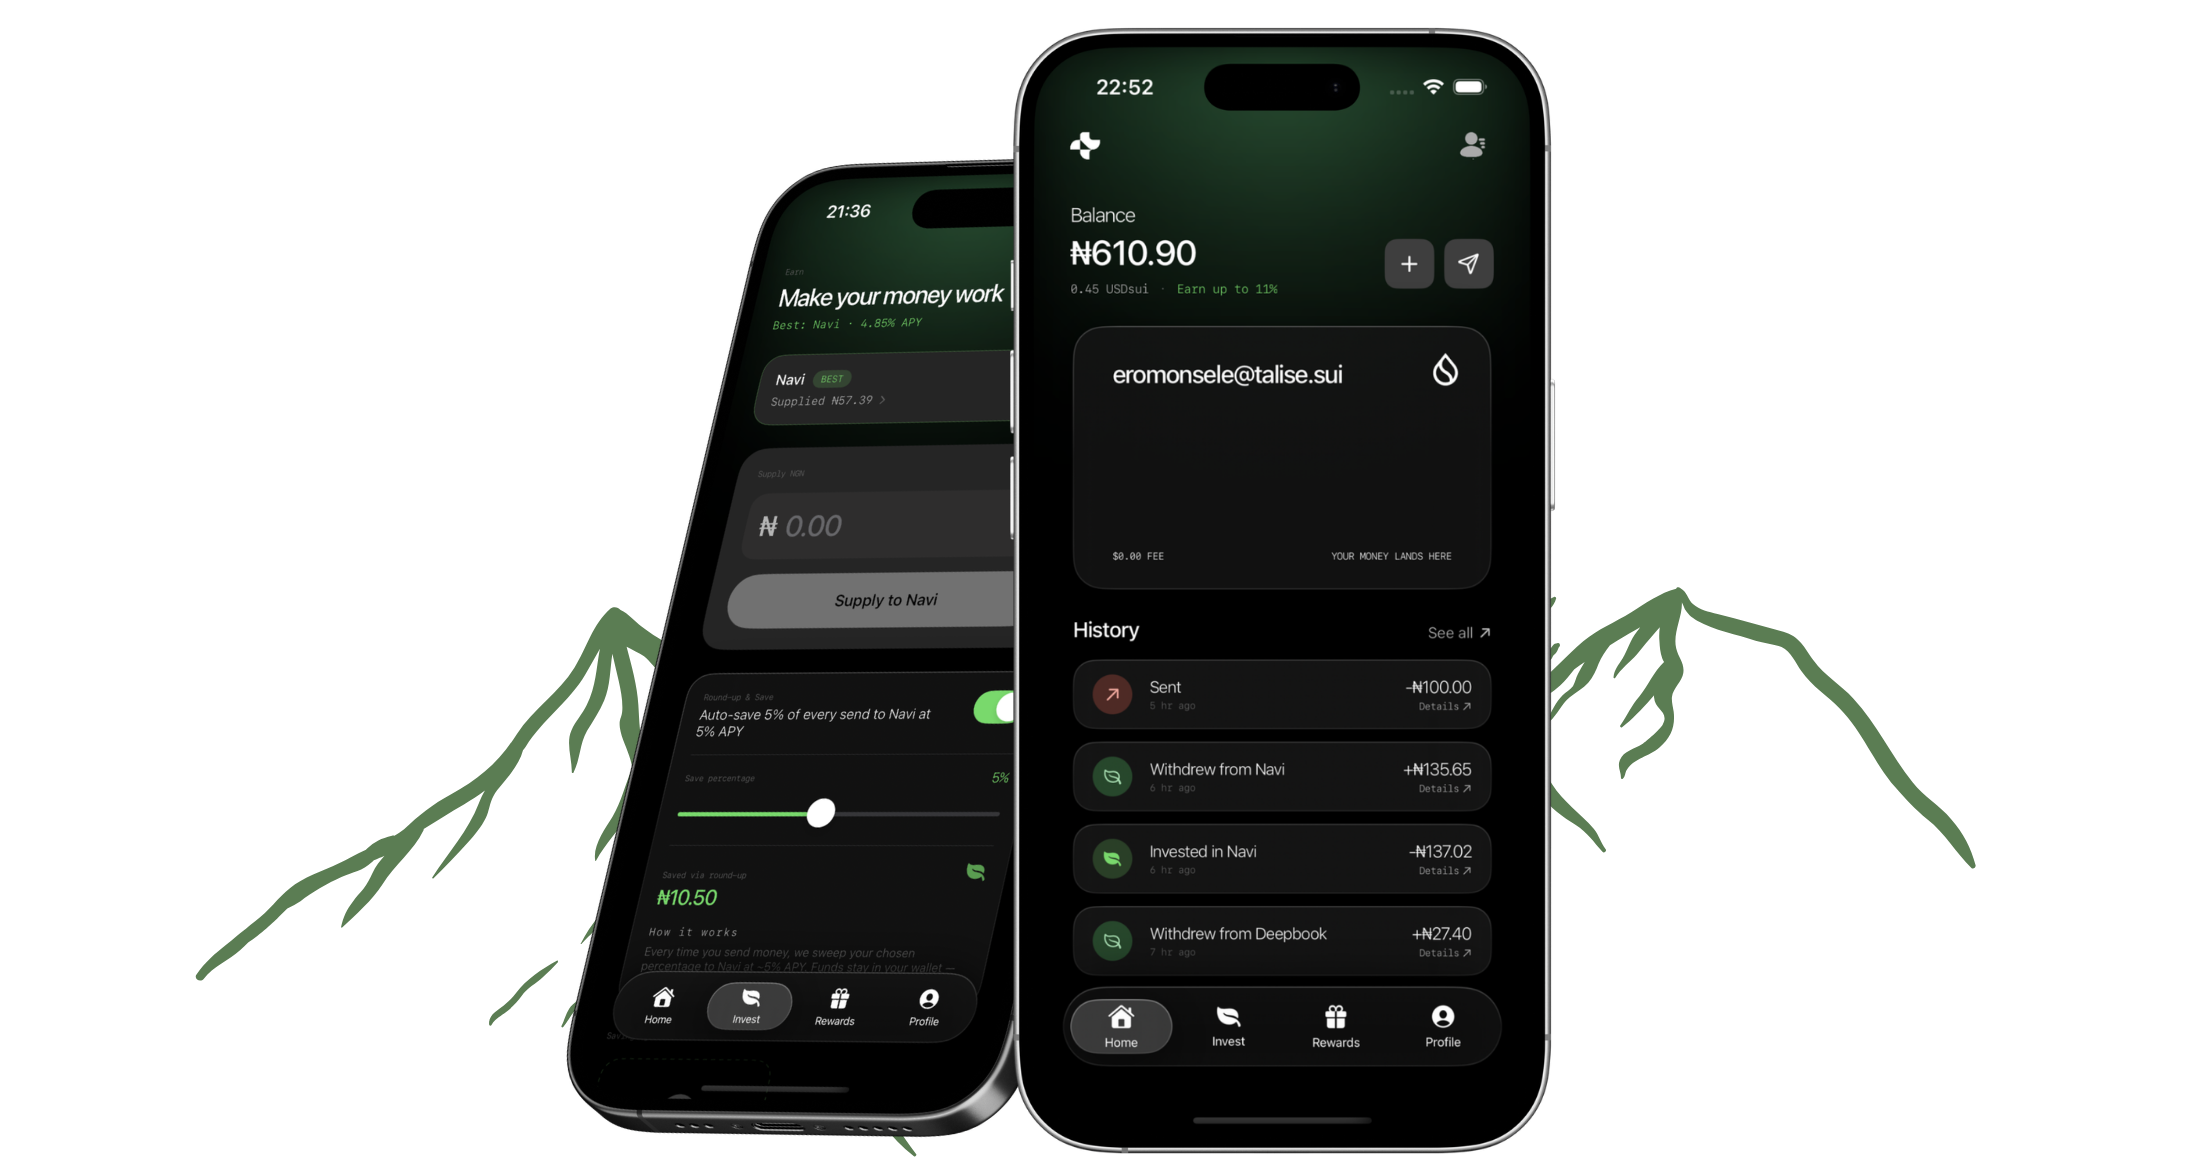
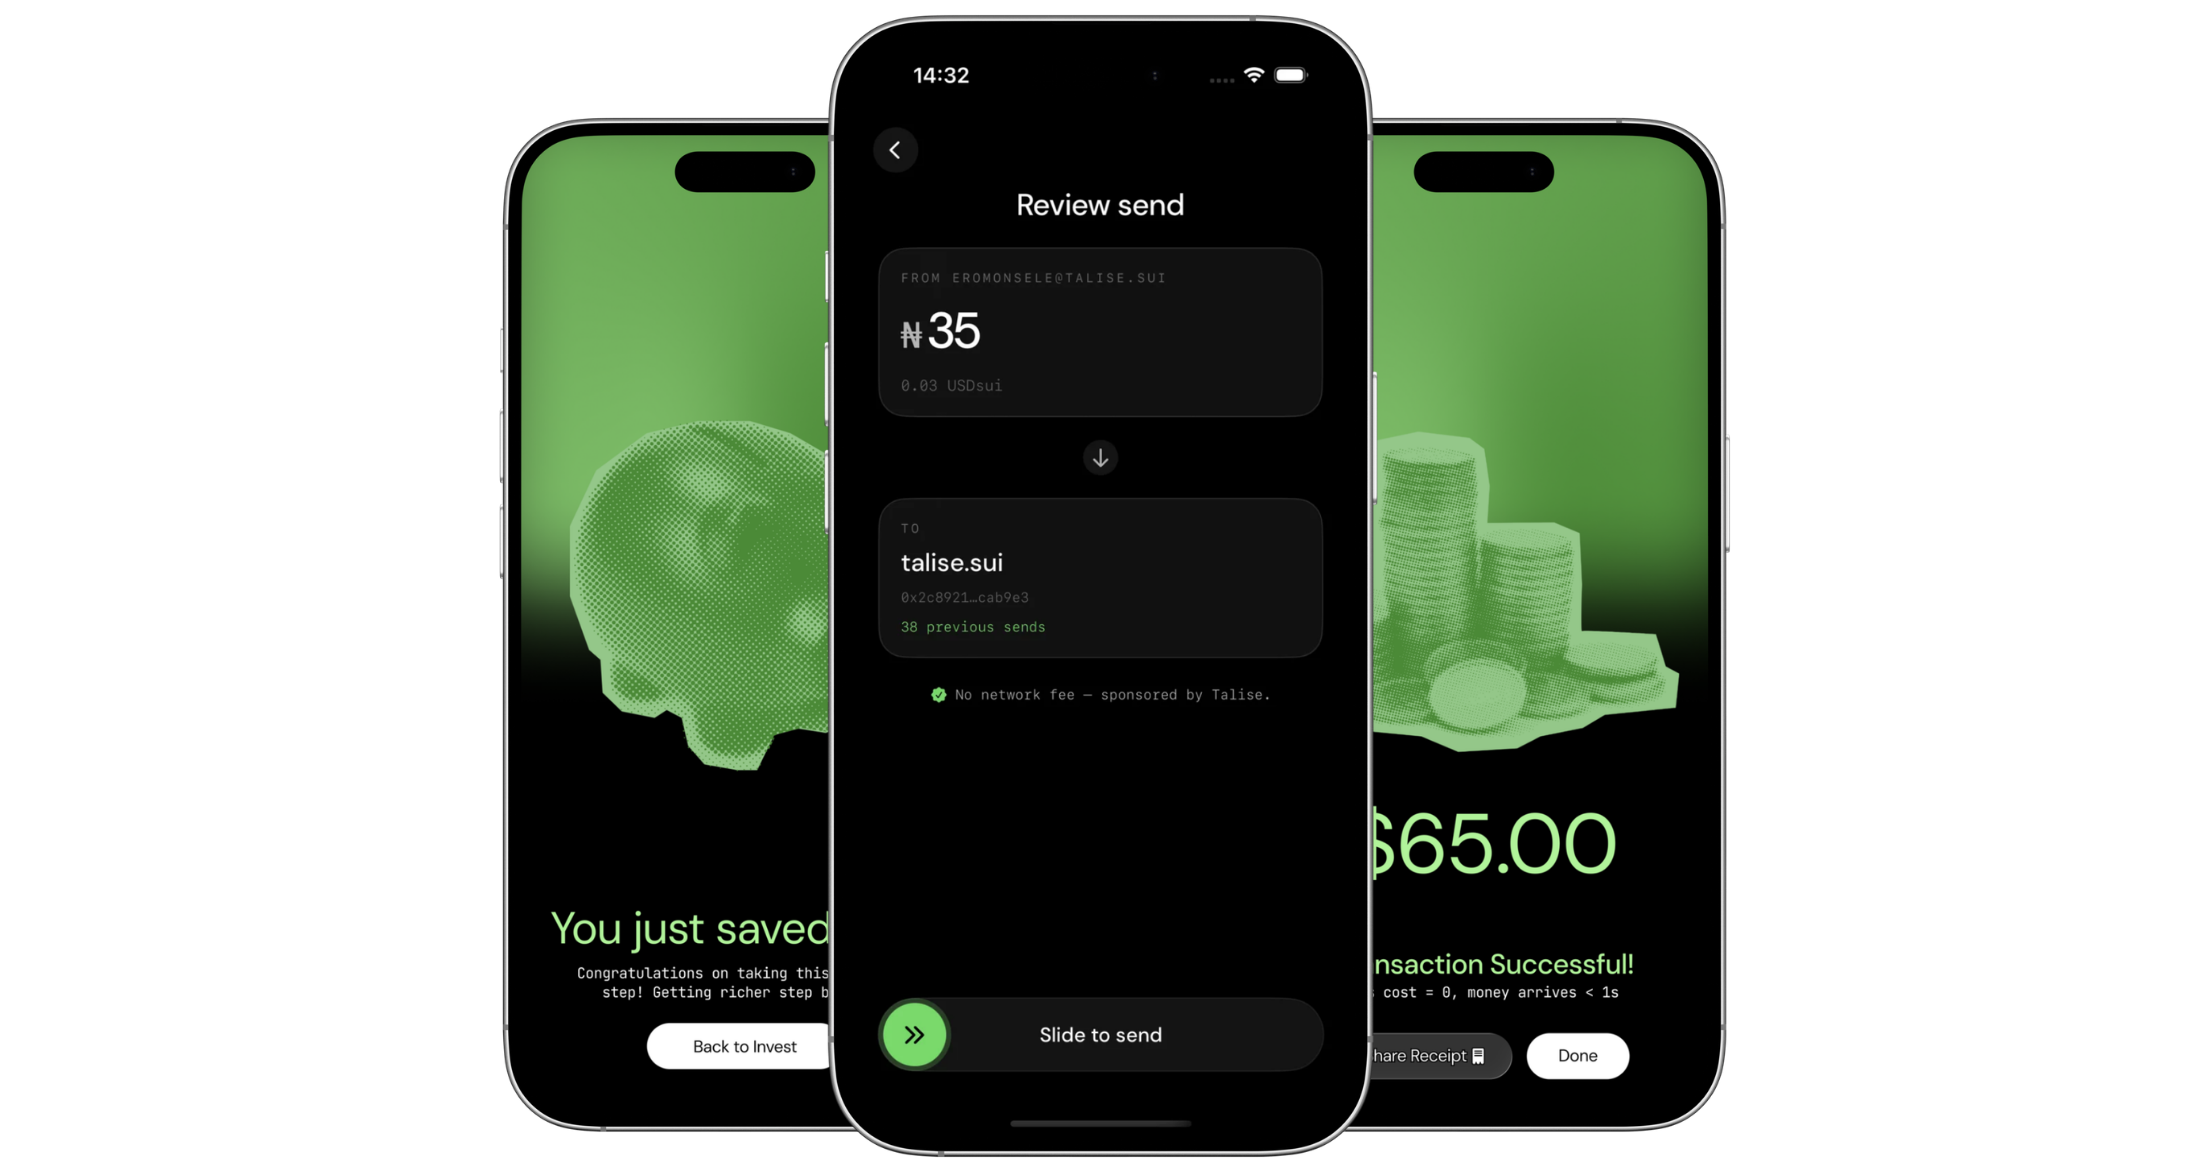
landing: bigger hero phone collage + updated 3-screen artwork
Swap in the updated app collage (review-send / auto-save / completed transfer,
2202x1172) and enlarge the group: container max-width 1100px -> 1280px, glow
900px -> 1040px, and fix the declared image dimensions to the new aspect ratio
(was 2208x1242, which would have stretched it). Updated alt + sizes. next build
clean.

diff --git a/web/app/page.tsx b/web/app/page.tsx
@@ -177,10 +177,10 @@ function PhoneCollage() {
   // `talise-collage-*` keyframes are defined in `globals.css`; they
   // respect prefers-reduced-motion by collapsing to identity transforms.
   return (
-    <div className="motion-collage relative mx-auto mt-14 w-full max-w-[1100px] md:mt-20">
+    <div className="motion-collage relative mx-auto mt-14 w-full max-w-[1280px] md:mt-20">
       <div
         aria-hidden
-        className="talise-collage-glow pointer-events-none absolute inset-x-0 top-1/4 -z-10 mx-auto h-[80%] max-w-[900px] blur-3xl"
+        className="talise-collage-glow pointer-events-none absolute inset-x-0 top-1/4 -z-10 mx-auto h-[80%] max-w-[1040px] blur-3xl"
         style={{
           background:
             "radial-gradient(58% 52% at 50% 42%, color-mix(in srgb, var(--color-accent-deep) 50%, transparent), transparent 68%), radial-gradient(46% 42% at 50% 58%, color-mix(in srgb, var(--color-accent) 30%, transparent), transparent 72%)",
@@ -189,11 +189,11 @@ function PhoneCollage() {
       <div className="talise-collage-art">
         <Image
           src="/talise-app-collage.png"
-          alt="Talise iOS app: Earn and Home screens shown side by side"
-          width={2208}
-          height={1242}
+          alt="Talise iOS app: reviewing a cross-border send, an auto-save, and a completed transfer"
+          width={2202}
+          height={1172}
           priority
-          sizes="(max-width: 768px) 100vw, 1100px"
+          sizes="(max-width: 768px) 100vw, 1280px"
           className="mx-auto h-auto w-full"
         />
       </div>